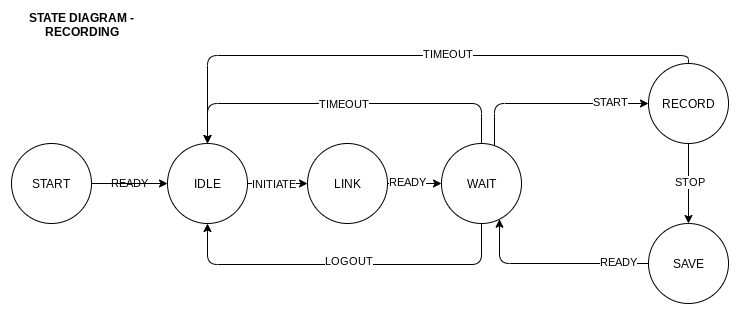
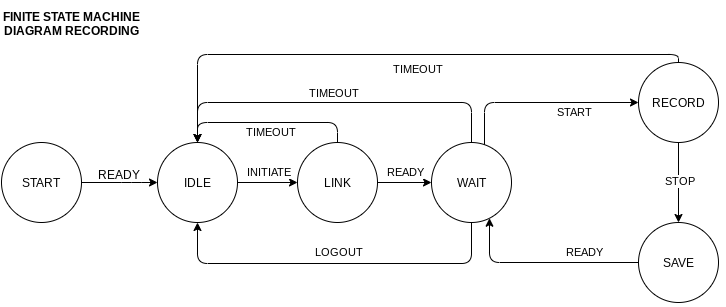
Added extra tekst about the FSM

diff --git a/README.md b/README.md
@@ -1,7 +1,33 @@
 # rehearsal-recording
 An easy tool to record your rehearsals. 
 
-Reference-style: 
-![Finite state machine][fsm]
+## Architecture
+
+## Raspberry Pi: Embedded software
+The Raspberry Pi runs a Linux operating system. A Python application will be started as main application. This application connects to the MQTT bus to recieve commands and send information. The Python application requires to be very stable. Therefore, the design pattern "state machine" is implemented. The software is able to be in certain states. Events are used to transition from one state to another. These events can be generated from different sources, like the MQTT bus or hardware switches.
+
+### Finite state machine design
+The following finite state machine has been developed:
+
+![fsm]
+
+#### START
+When the Raspberry Pi is started, it will startup Linux and all required resources. As last, the Python application is started. When the initialisation is ready, the READY event is generated. It will go to the IDLE state.
+
+#### IDLE
+In this state, the software is waiting on the INITIATE event. At this moment, no user is using the recording application. In order to use the product, it is required to link the client application (usually a mobile web application) with this software. Initiation is done by pressing the button and initiates the event INITIATE and will go to the LINK state.
+
+#### LINK
+When the button is clicked over MQTT a message is sent that the device wants to link itself to a client. During the LINK state, the device expect two values from the client. One value below the 10 that represents the number of times, the button must be pressed. The second value represents the ID of the client, so the device knows that is must listen to these commands. When this proces takes too much time, a TIMEOUT event is generated and the proces will stop. When it is successfull, a READY event is generated and the client and the software is linked together.
+
+#### WAIT
+The software waits on commands from the client. In this case, the client is able to start a record. When the software does not recieve for a time commands from the client, and a TIMEOUT event will be generated. It will stop the link with the client and new clients can be accepted. The client is also able to send a LOGOUT event to stop de link with the client. When the client want to record a new song, it sends a RECORD event. This event can contain the name of the song. When the song alreay exists (even when the date is put before the name) it appends the number of takes of the song. During this state, the client is able to send configuration data to setup the microphone for recording.
+
+#### RECORD
+The software starts recording from the microphone as source. When the client submits the event STOP, the recording is stopped and the state SAVE is activated.
+
+#### SAVE
+During this state, the recording is saved to the server, so the client is able to download the recordings. When the recording is saved, the event READY is triggered.
+
 
 [fsm]: images/fsm.png "Finite State Machine"
